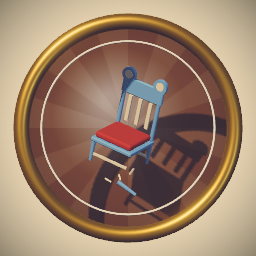
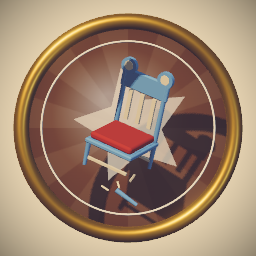
Baby Bear's chair seen side on with room to fall, bears loom at the edges of the picture instead of in front of it, the reveal folds away, the camera swings out of the house sooner

Changed region(s): [[0.2812, 0.2188, 0.8438, 0.875]]

diff --git a/src/play/world.js b/src/play/world.js
@@ -113,6 +113,7 @@ export function createWorld(gfx, assets, { sound = () => {}, reduced = () => fal
     mode = 'page';
     pageP = P;
     hideSeats();
+    reveal.leave();
     for (const b of Object.values(bears)) b.group.visible = false;
     setActive(id);
     me.group.visible = true;
@@ -257,8 +258,7 @@ export function createWorld(gfx, assets, { sound = () => {}, reduced = () => fal
     me.group.visible = false;
     // The winner in the little chair, front and centre; the rest stand behind and beside it, like a photograph.
     const chairSt = stations.chair;
-    chairSt?.rest?.();
-    const seat = chairSt?.seat ?? { x: 2.03, z: -0.72, ry: 0.35 };
+    const seat = chairSt?.rest?.(0.35) ?? { x: 2.03, z: -0.72, ry: 0.35 };
     const spots = [
       { x: seat.x, z: seat.z, ry: seat.ry },
       { x: 1.4, z: -1.15, ry: 0.25 },
@@ -306,19 +306,33 @@ export function createWorld(gfx, assets, { sound = () => {}, reduced = () => fal
     sound('growl', { kind: ['papa', 'mama', 'baby'][i] });
     ctx.shake(0.4, 1, 0.6);
   }
+  let spotsKey = '';
+  let spotsNow = [];
   function placeHomeBears() {
     if (mode !== 'page' || !active) {
       return;
     }
     const list = [bears.papa, bears.mama, bears.baby];
-    const spots = bearSpots(activeId, active.frame);
+    const key = `${activeId}|${bearScare ? bearScare.i : -1}|${fitAspect ?? camera.aspect}`;
+    if (key !== spotsKey) {
+      spotsKey = key;
+      spotsNow = bearSpots(activeId, active.frame, bearScare ? bearScare.i : -1);
+    }
+    const spots = spotsNow;
     for (let i = 0; i < 3; i++) {
       const b = list[i];
       if (i >= bearsHome && !(bearScare && bearScare.i === i)) {
         b.group.visible = false;
         continue;
       }
-      if (!b.group.visible || b.homeFor !== activeId) {
+      // One that came in on this page stays where it landed.
+      if (b.group.visible && b.homeFor === activeId) continue;
+      if (!spots[i]) {
+        b.group.visible = false;
+        b.homeFor = null;
+        continue;
+      }
+      {
         const [x, y, z, ry] = spots[i];
         b.place(x, y, z, ry);
         b.homeFor = activeId;
@@ -332,31 +346,56 @@ export function createWorld(gfx, assets, { sound = () => {}, reduced = () => fal
     bell: [[23.05, -0.3, 1.0, -0.8], [23.55, -0.3, 0.2, -0.9], [22.75, -0.3, 1.85, -0.6]],
     swing: [[10.9, -0.3, 0.2, 0.9], [10.35, -0.3, 0.95, 0.8], [11.15, -0.3, 1.6, 0.6]],
   };
-  function bearSpots(id, f) {
+  /**
+   * Indoors: searched against the page's own framing, so the bears loom at the edges of the picture, never between the
+   * camera and the page: Papa at one edge, Mama at the other, Baby a little deeper in. A bear with no such place on this
+   * page stays out of the picture (null), except the one arriving, which takes the nearest place there is.
+   */
+  const BEAR_WANT = [
+    { sx: -0.95, deeper: 0.15 },
+    { sx: 0.95, deeper: 0.15 },
+    { sx: 0.7, deeper: 0.5 },
+  ];
+  const _bf = new THREE.Vector3();
+  const _br = new THREE.Vector3();
+  const _bv = new THREE.Vector3();
+  function bearSpots(id, f, arriving = -1) {
     if (OUTDOOR_BEARS[id]) return OUTDOOR_BEARS[id];
-    // Indoors: either side of the page, toward the back, turned to watch it.
-    const [fx, , fz] = f.from;
-    const len = Math.hypot(fx, fz) || 1;
-    const rx = fz / len;
-    const rz = -fx / len;
-    const bx = -fx / len;
-    const bz = -fz / len;
+    const aspect = fitAspect ?? camera.aspect ?? 16 / 9;
+    const fr = framing(f, aspect);
+    _bf.subVectors(fr.look, fr.pos);
+    _bf.y = 0;
+    _bf.normalize();
+    _br.set(-_bf.z, 0, _bf.x);
+    const tanH = Math.tan(THREE.MathUtils.degToRad(fr.fov ?? 32) / 2) * aspect;
     const [tx, , tz] = f.target;
+    const tDepth = (tx - fr.pos.x) * _bf.x + (tz - fr.pos.z) * _bf.z;
+    const room = Object.values(ROOM).find(([a, b2]) => tx >= a && tx <= b2) ?? [-9.4, 9.0];
     const out = [];
-    const plan = [
-      [-1, 1.1, 0.35],
-      [1, 1.05, 0.3],
-      [1, 1.45, -0.15],
-    ];
-    for (const [side, spread, back] of plan) {
-      let x = tx + rx * side * f.radius * spread + bx * back;
-      let z = tz + rz * side * f.radius * spread + bz * back;
-      // Stay in the page's room (never inside a partition or through it).
-      const room = Object.values(ROOM).find(([a, b2]) => tx >= a && tx <= b2) ?? [-9.4, 9.0];
-      x = Math.max(room[0] + 0.4, Math.min(room[1] - 0.4, x));
-      z = Math.max(BACK + 0.35, Math.min(FRONT - 0.5, z));
-      out.push([x, 0, z, Math.atan2(tx - x, tz + 1.5 - z) * 0.8]);
-    }
+    BEAR_WANT.forEach((want, i) => {
+      let best = null;
+      let bestScore = Infinity;
+      const strict = i !== arriving;
+      for (let x = room[0] + 0.45; x <= room[1] - 0.45; x += 0.12) {
+        for (let z = BACK + 0.4; z <= FRONT - 0.4; z += 0.12) {
+          _bv.set(x - fr.pos.x, 0, z - fr.pos.z);
+          const depth = _bv.dot(_bf);
+          if (depth < 1) continue;
+          const sx = _bv.dot(_br) / (depth * tanH);
+          const near = Math.hypot(x - tx, z - tz);
+          if (strict && (depth < tDepth + want.deeper || Math.abs(sx) < 0.6 || Math.abs(sx) > 1.2 || near < 0.8)) continue;
+          let score = Math.abs(sx - want.sx) * 3 + Math.max(0, tDepth + want.deeper - depth) * 4 + Math.max(0, 0.9 - near) * 6;
+          for (const o of out) if (o) score += Math.max(0, 0.75 - Math.hypot(x - o[0], z - o[2])) * 8;
+          if (score < bestScore) {
+            bestScore = score;
+            best = [x, z];
+          }
+        }
+      }
+      if (!best && !strict) best = [Math.max(room[0] + 0.4, Math.min(room[1] - 0.4, tx + (i === 0 ? -1.2 : 1.2))), BACK + 0.45];
+      // Turned to watch Goldi.
+      out.push(best ? [best[0], 0, best[1], Math.atan2(tx - best[0], tz - best[1])] : null);
+    });
     return out;
   }
 
@@ -605,6 +644,7 @@ function createReveal(scene, gfx) {
   let list = [];
   let t0 = 0;
   let now = 0;
+  let leftAt = -1;
   const DROP = 0.32;
   const FIRST = 0.45;
   return {
@@ -615,6 +655,9 @@ function createReveal(scene, gfx) {
     /** marks: [{ v, k, face (image|null), color, me }] sorted worst first. */
     set(P, marks, { faces = [] } = {}) {
       group.visible = true;
+      leftAt = -1;
+      group.scale.setScalar(1);
+      group.position.copy(at);
       meter.setBand(P.c0, P.w, Math.min(0.02, P.w / 2));
       meter.snap(P.c0);
       meter.setValue(P.c0);
@@ -654,6 +697,11 @@ function createReveal(scene, gfx) {
     },
     hide() {
       group.visible = false;
+      leftAt = -1;
+    },
+    /** Folds away (up and small) while the camera glides off to the next page. */
+    leave() {
+      if (group.visible && leftAt < 0) leftAt = now;
     },
     /** Seconds since it began. */
     get age() {
@@ -662,6 +710,17 @@ function createReveal(scene, gfx) {
     update(dt, clock) {
       now = clock;
       if (!group.visible) return;
+      if (leftAt >= 0) {
+        const k = Math.min(1, (now - leftAt) / 0.45);
+        const e = k * k * (3 - 2 * k);
+        group.scale.setScalar(Math.max(0.001, 1 - e));
+        group.position.set(at.x, at.y + e * 0.5, at.z);
+        if (k >= 1) {
+          group.visible = false;
+          leftAt = -1;
+          return;
+        }
+      }
       meter.update(dt, clock);
       const age = now - t0;
       list.forEach((m, i) => {

diff --git a/src/world/stations.js b/src/world/stations.js
@@ -199,8 +199,9 @@ export function createStations(ctx) {
     const CS = 1;
     const CX = 1.95;
     const CZ = -0.95;
-    // Turned a little toward the fire, seen three-quarters so the sit reads.
-    const RY = 0.35;
+    // Turned away from the fire and seen three-quarters from the front: she stands beside it (not in front of it), the sit
+    // reads, and when it snaps she goes over backwards onto the open rug.
+    const RY = -0.75;
     const FX = Math.sin(RY);
     const FZ = Math.cos(RY);
     const sitAt = (k) => [CX + FX * (0.46 - k * 0.22), CZ + FZ * (0.46 - k * 0.22)];
@@ -214,20 +215,19 @@ export function createStations(ctx) {
     stations.chair = {
       id: 'chair',
       group: g,
-      frame: { target: [CX + 0.12, 0.5, CZ + 0.2], from: [-0.35, 0.3, 1], radius: 0.95 },
-      meter: { at: [CX + 0.82, 0, CZ - 0.15], s: 0.52, axis: 'down' },
-      /** Whole again (the podium sits the winner in it). */
-      rest() {
+      frame: { target: [CX - 0.12, 0.48, CZ + 0.2], from: [0.25, 0.3, 1], radius: 1.15 },
+      meter: { at: [CX - 0.9, 0, CZ + 0.12], s: 0.52, axis: 'down' },
+      /** Whole again, turned to ry (the podium turns it to face the room and sits the winner in it). */
+      rest(ry = RY) {
         broken = null;
         for (const p of chair.parts) {
           p.position.copy(p.userData.home);
           p.rotation.copy(p.userData.homeRot);
         }
         chair.group.scale.setScalar(CS);
-        chair.group.rotation.set(0, RY, 0);
+        chair.group.rotation.set(0, ry, 0);
+        return { x: CX + Math.sin(ry) * 0.24, z: CZ + Math.cos(ry) * 0.24, ry };
       },
-      /** Where (and which way) she sits in it. */
-      seat: { x: CX + FX * 0.24, z: CZ + FZ * 0.24, ry: RY },
       enter() {
         this.rest();
         const [x, z] = sitAt(0);

diff --git a/src/ui/ui.css b/src/ui/ui.css
@@ -338,7 +338,9 @@
 .standings .s .pl { color: var(--honey); }
 .standings .s .gn { color: #9fe08a; }
 .revtitle { position: absolute; left: 50%; top: calc(var(--rt) + 16px); transform: translateX(-50%); font: 900 clamp(28px, 5vmin, 44px) / 1 'Fraunces', serif; color: var(--paper); -webkit-text-stroke: 7px var(--ink); paint-order: stroke fill; white-space: nowrap; }
-.tapon { position: absolute; left: 50%; bottom: calc(var(--rb) + 70px); transform: translateX(-50%); font: 800 18px/1 'Barlow Condensed'; letter-spacing: 0.14em; text-transform: uppercase; color: var(--paper); -webkit-text-stroke: 4px var(--ink); paint-order: stroke fill; opacity: 0.85; }
+.revfoot { position: absolute; left: 50%; bottom: calc(var(--rb) + 14px); transform: translateX(-50%); display: flex; flex-direction: column; align-items: center; gap: 10px; width: min(96vw, 900px); pointer-events: none; }
+.revfoot .standings { position: static; transform: none; width: 100%; }
+.tapon { font: 800 18px/1 'Barlow Condensed'; letter-spacing: 0.14em; text-transform: uppercase; color: var(--paper); -webkit-text-stroke: 4px var(--ink); paint-order: stroke fill; opacity: 0.85; }
 .podium .winner { position: absolute; left: 50%; top: calc(var(--rt) + 14vh); transform: translate(-50%, -50%); text-align: center; }
 .podium .winner .stamp { position: relative; left: auto; top: auto; display: inline-block; transform: rotate(-5deg); --s: clamp(40px, 8vmin, 84px); }
 .podium .winner .who { margin-top: 10px; font: 900 clamp(26px, 4.4vmin, 40px) / 1 'Fraunces', serif; color: var(--paper); -webkit-text-stroke: 7px var(--ink); paint-order: stroke fill; }

diff --git a/src/ui/ui.js b/src/ui/ui.js
@@ -480,7 +480,7 @@ ${pages}`;
     const rows = d.rows
       .map((r, i) => `<div class="s${r.me ? ' me' : ''}" style="animation-delay:${0.05 * i}s">${headHtml(r)}<span class="pl">${ordinal(r.place)}</span><span>${esc(r.name)}</span><b>${commas(r.points)}</b>${r.gain > 0 ? `<span class="gn">+${r.gain}</span>` : ''}</div>`)
       .join('');
-    put('reveal', JSON.stringify(d), `<div class="revtitle">${esc(d.title)}</div><div class="standings">${rows}</div>${d.tap ? `<div class="tapon">${d.touch ? 'Tap' : 'Space'} to go on</div>` : ''}`);
+    put('reveal', JSON.stringify(d), `<div class="revtitle">${esc(d.title)}</div><div class="revfoot"><div class="standings">${rows}</div>${d.tap ? `<div class="tapon">${d.touch ? 'Tap' : 'Space'} to go on</div>` : ''}</div>`);
   }
 
   function podium(d) {

diff --git a/src/gfx/camrig.js b/src/gfx/camrig.js
@@ -103,7 +103,8 @@ export function createCamRig(camera) {
         const dist = from.pos.distanceTo(to.pos);
         const arc = Math.sin(Math.PI * k);
         pos.y += arc * Math.min(1.2, dist * 0.12);
-        pos.addScaledVector(away, arc * swing);
+        // Swing out of the house early and back in late, so a move between rooms never grazes a partition.
+        pos.addScaledVector(away, Math.sqrt(arc) * swing);
         fov = from.fov + (to.fov - from.fov) * k;
       }
       pushNow += (push - pushNow) * Math.min(1, dt * 2.2);
